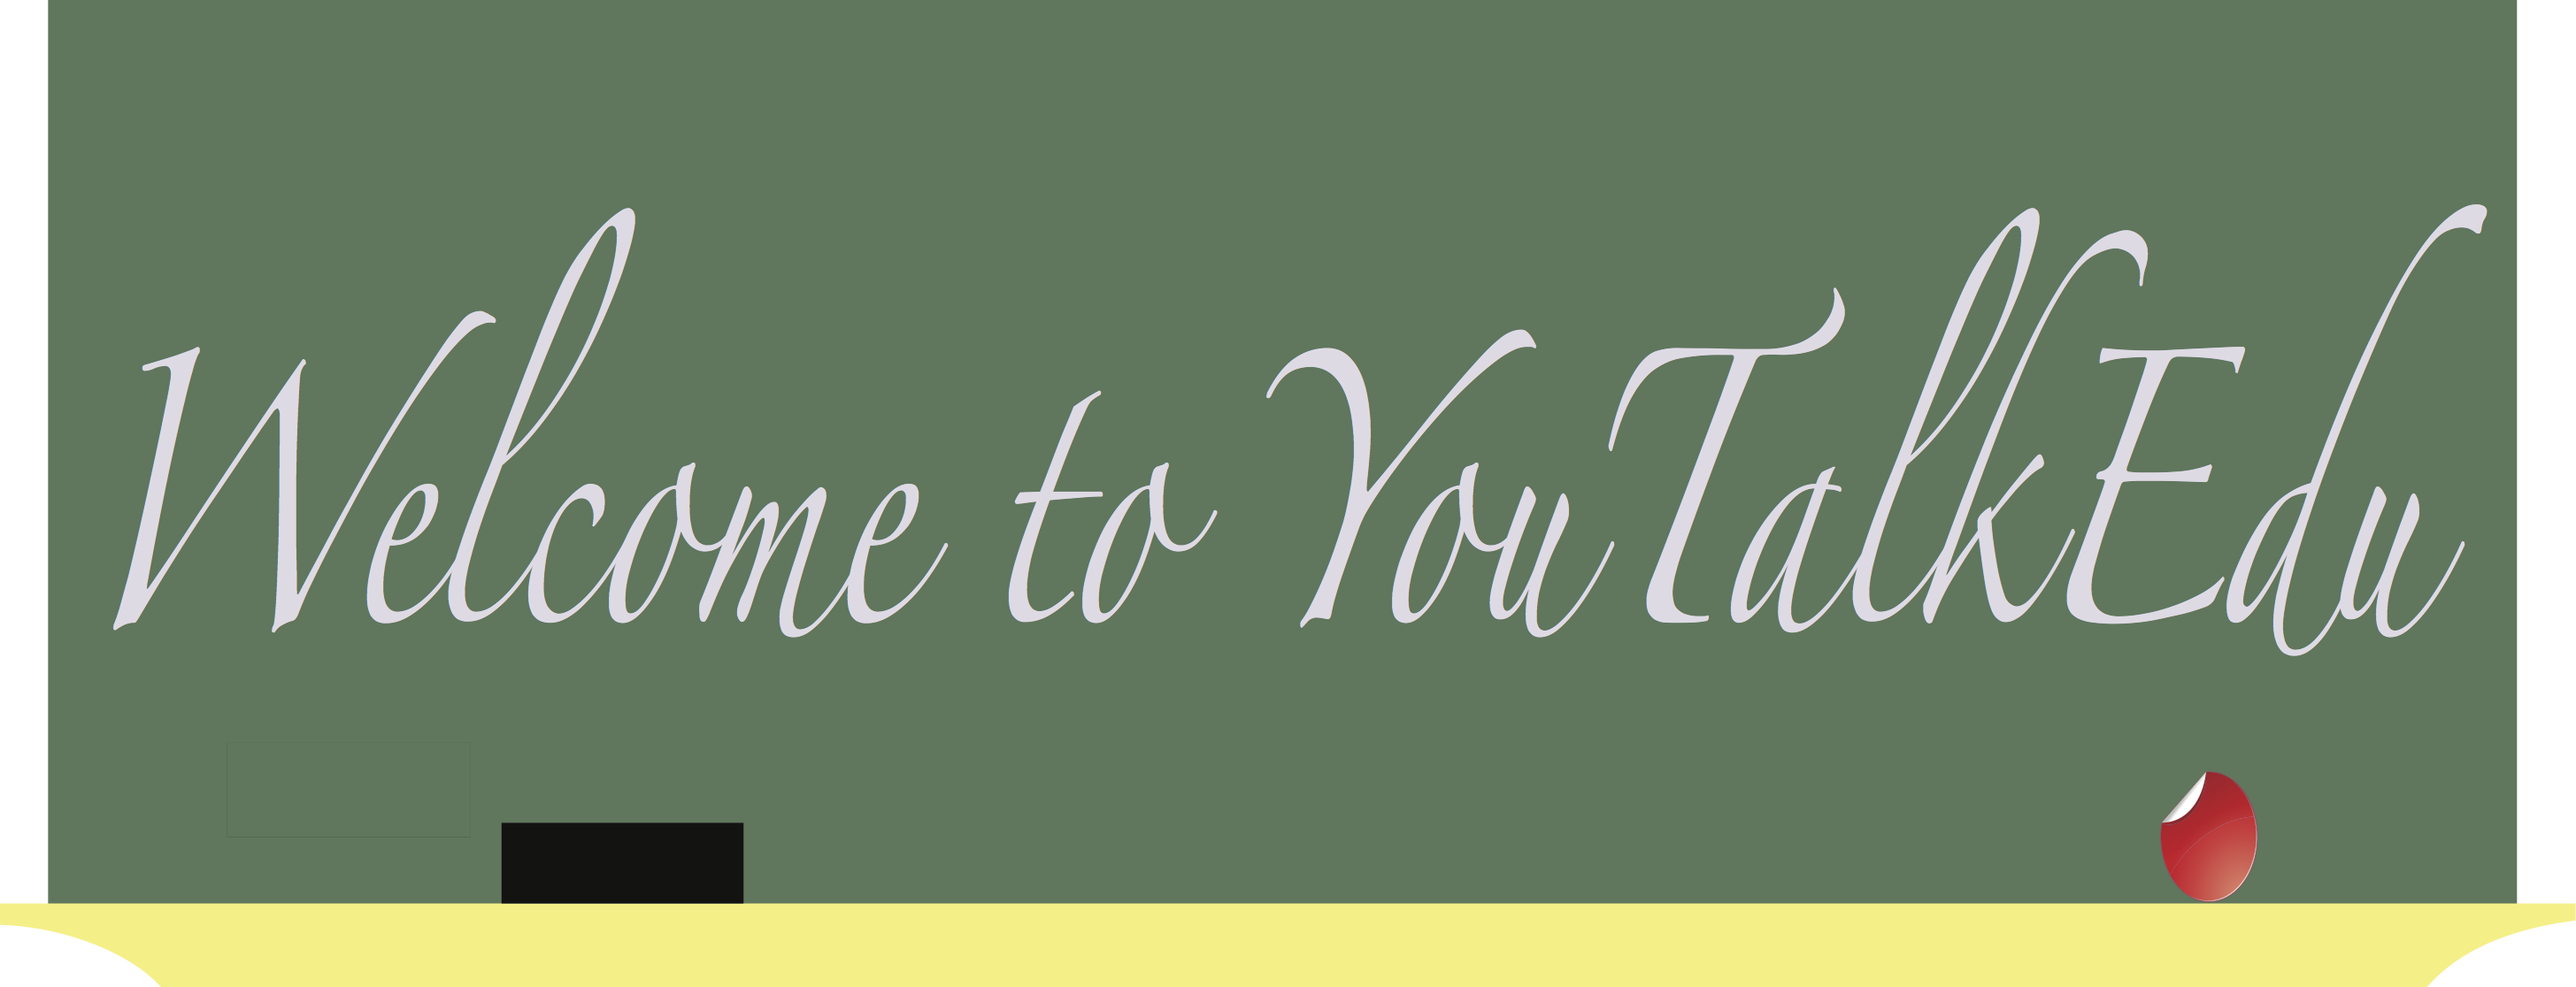
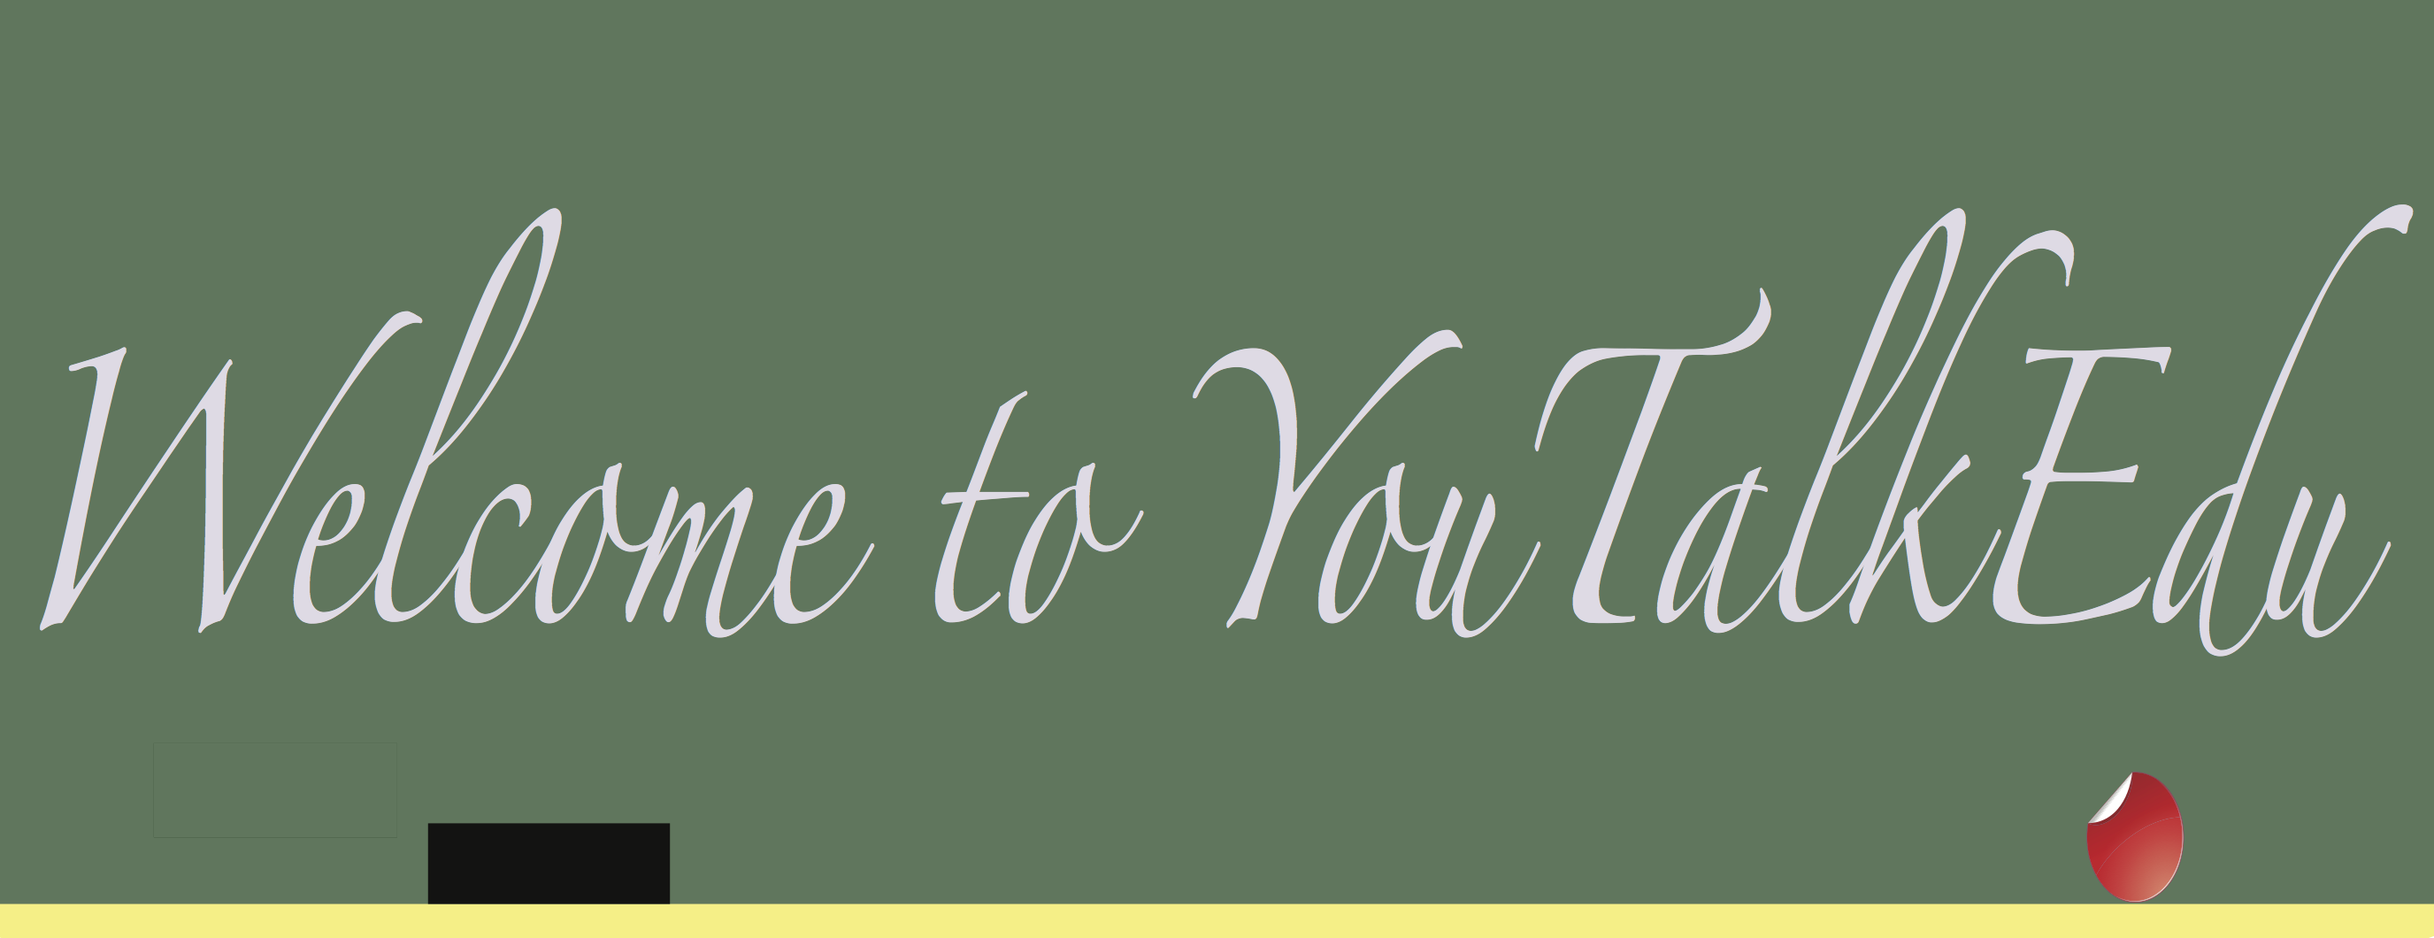
Graphic moved to home page, minor template moves and changes

Changed region(s): [[0.0, 0.0, 1.0, 1.0], [0.4944, 0.3425, 0.5253, 0.4047]]

diff --git a/templates/learn_more.html b/templates/learn_more.html
@@ -18,14 +18,13 @@
 		<div class="tab-content">
 			{# Default display upon arrival #}
 			<div class="tab-pane fade in active" id="tab0">
-				{#<h1 style="font-family:cursive">Welcome to YouTalkEdu</h1>#}
-				<img src="{% static 'img/welcome.png' %}" width=600px height=200px alt="Welcome to YouTalkEdu" />
-				<h3>Where YOU discuss & debate all things education!</h3>
-				<p>If I'm already boring you, just go wander around the site. I won't be upset. Really.</p><br/>
-				<h4>What is YouTalkEdu?</h4>
-				<p>YouTalkEdu is a free-to-use website geared towards bettering the current 
-				educational system. Anyone can browse around the content here, 
-				however only those with an account can post, comment, or vote on the content.
+				{# <h1 style="font-family:cursive">Welcome to YouTalkEdu</h1> #}
+				<h1 style="font-family:cursive">YouTalkEdu - Where YOU discuss & debate all things education!</h1><br/>
+				{#<h3>Where YOU discuss & debate all things education!</h3>#}
+				<h4 style="font-size:1.6em">What is YouTalkEdu?</h4>
+				<p style="font-size:1.2em">YouTalkEdu is a free-to-use website geared towards 
+				bettering the current educational system. Anyone can browse around the content here, 
+				however only those with an account can post, comment, or vote on the content.<br/><br/>
 				Registering is extremely painful and not recommended, but if you wish to do so you may 
 				<a href="{% url 'register' %}">register here</a>.</p>
 				<br/>
@@ -37,8 +36,8 @@
 					<li>No foul language.</li>
 				</ul><br/>
 {% endcomment %}
-				<h3>Click on the tabs to the left to learn more about YouTalkEdu!</h3><br/>
-				<h6>Huge thanks to <a href="//twitter.com/theodoremedina">Theodore Medina</a> for the graphic and favicon!</h6>
+				<h3>Click on the tabs to the left to learn more about YouTalkEdu!</h3><br/><br/>
+				<p><span style="font-weight:bold">Still have questions?</span> Check out the <a href="{% url 'faq' %}">FAQ</a>.</p><br/>
 			</div>
 
 			{# Tab 1 - User types #}

diff --git a/templates/FAQ.html b/templates/FAQ.html
@@ -53,12 +53,12 @@
 	<ol>
 		<li>The incorrect password is being entered.</li>
 			<p>
-				Fix: Please change your password. You may do so by clicking 
+				<u>Fix:</u> Please change your password. You may do so by clicking 
 				<a href="{% url 'password_reset' %}">here</a>.
 			</p>
 		<li>The incorrect username is being entered.</li>
 			<p>
-				Fix: If you have made any posts/comments on the site, try searching for them and
+				<u>Fix:</u> If you have made any posts/comments on the site, try searching for them and
 				finding the username attached to them.
 {% comment %} If worst comes to worst, you may try 
 					<a href="Mailto:webmaster@youtalkedu.com">emailing me</a>,
@@ -68,7 +68,7 @@
 			</p>
 		<li>The account has been banned.</li>
 			<p>
-				Fix: If you are sure you are entering in the correct username and password,
+				<u>Fix:</u> If you are sure you are entering in the correct username and password,
 				your account is likely banned. 
 				If you haven't posted any ban-worthy material on the site,
 				this is likely the result of someone stealing your password and posting as you. 

diff --git a/templates/home.html b/templates/home.html
@@ -28,7 +28,8 @@
 	</div>
 
 	<div class="hero-unit">
-		<h1>It's time to talk education</h1>
+		<img src="{% static 'img/welcome2.png' %}" width=600px height=200px alt="Welcome to YouTalkEdu" />
+		<h1 style="font-size:3.0em">It's time to talk education</h1>
 		<p style="font-size:1.2em">
 			Whether you're a student, teacher, school administrator, parent, or just someone interested 
 			in education, we need <span style="color:red">YOU</span>.	
@@ -50,7 +51,7 @@
 	</div>
 	<br/><br/>
 
-	<p><span style="font-weight:bold">Questions?</span> Check out the <a href="{% url 'faq' %}">FAQ</a></p>
+	<h6>Huge thanks to <a href="//twitter.com/theodoremedina">Theodore Medina</a> for the graphic and favicon!</h6>
 
 	</div> {# end move_right #}
 {% endblock content %}
